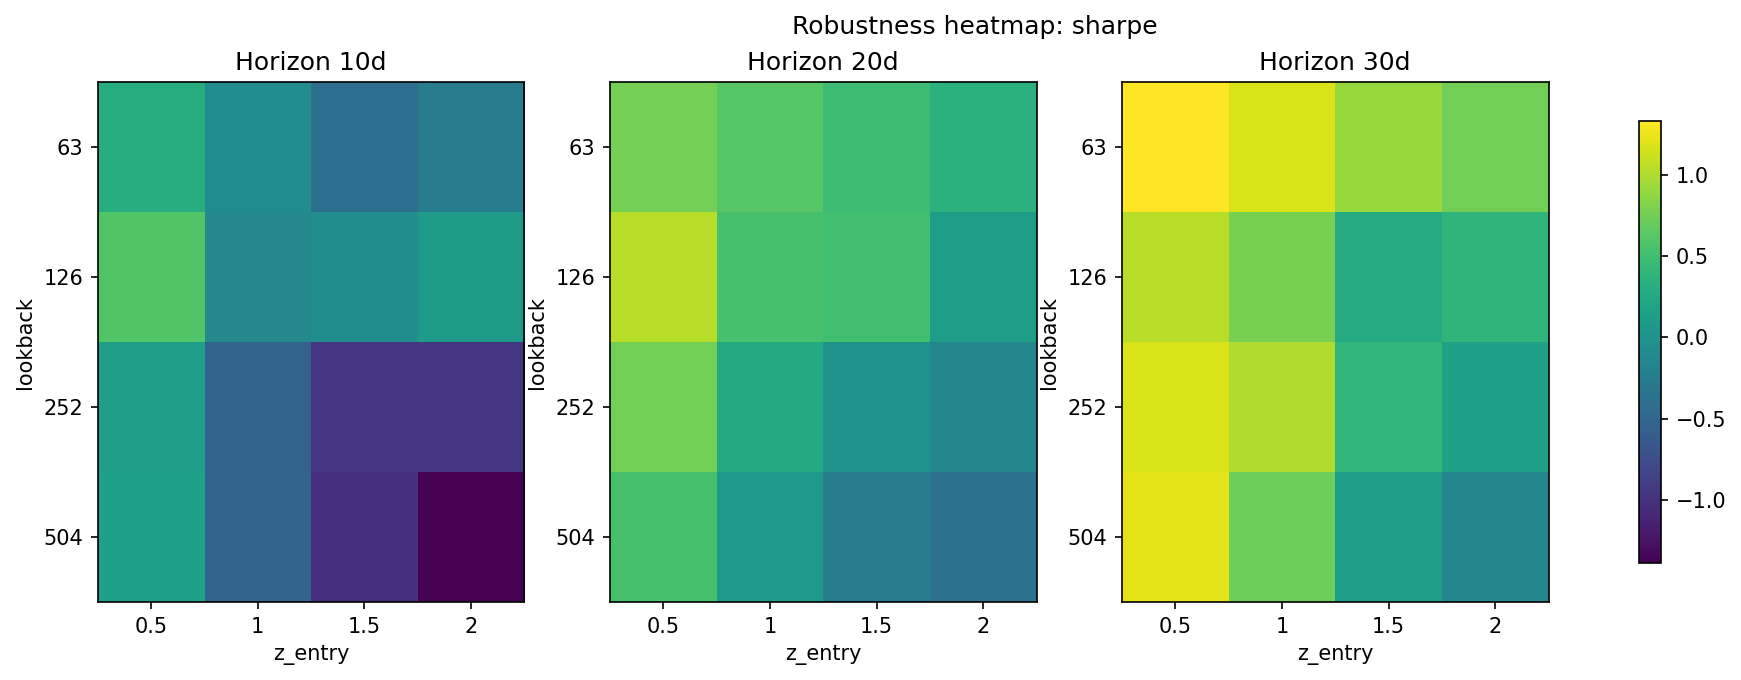
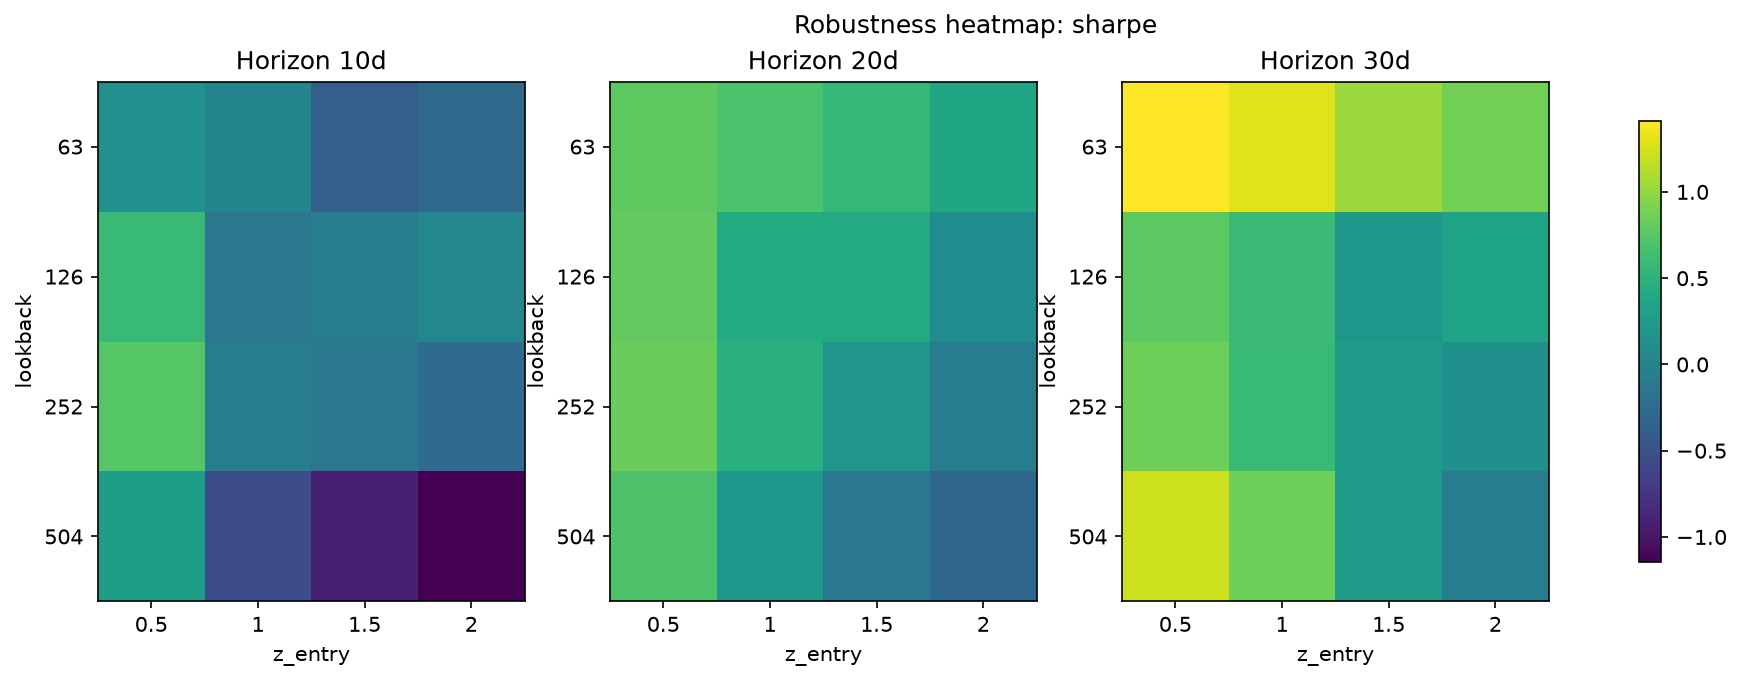
fix: signal coverage, benchmark sample and non-overlap Sharpe
- Tolerate isolated missing IV prints in the rolling z-score (min_periods
  defaults to 95% of lookback). Missing VSTOXX values on 24/31 December
  previously disabled the signal for 252 days each, so it only started in
  December 2010 and skipped the 2008-2009 crisis.
- Evaluate benchmarks on the same sample as the IV/RV signal.
- Add sharpe_non_overlap: the daily sharpe_approx annualizes overlapping
  20-day payoffs as independent daily returns and is strongly inflated.
- Run ruff in CI.
- Regenerate research report, figures and README results snapshot.

diff --git a/src/eurostoxx_iv_rv_backtest/backtesting/benchmarks.py b/src/eurostoxx_iv_rv_backtest/backtesting/benchmarks.py
@@ -64,9 +64,23 @@ def run_benchmark_backtests(
     rv_fwd_col: str = "rv_fwd_20d",
     signal_col: str = "signal_vol",
     trading_days_per_year: int = 252,
+    eligible_col: str | None = "iv_rv_zscore",
+    horizon: int = 20,
 ) -> tuple[pd.DataFrame, pd.DataFrame]:
     """
     Compare the IV/RV signal with simple variance-risk-premium benchmarks.
+
+    All strategies are evaluated on the same sample. When ``eligible_col`` is
+    present in ``df`` (by default the z-score), the benchmarks are only active
+    on rows where that column is defined, i.e. where the IV/RV signal itself
+    could have taken a position. Otherwise a benchmark would be credited with
+    periods (e.g. the signal warm-up) that the signal never had access to.
+
+    ``horizon`` is the payoff horizon in trading days. It is used for
+    ``sharpe_non_overlap``, computed on payoffs sampled every ``horizon`` rows
+    and annualized with ``sqrt(trading_days_per_year / horizon)``. The daily
+    ``sharpe_approx`` treats overlapping ``horizon``-day payoffs as independent
+    daily returns and is therefore strongly inflated.
 
     Returns:
         comparison: one row per strategy with summary diagnostics.
@@ -78,10 +92,14 @@ def run_benchmark_backtests(
     work = df.copy().sort_values(date_col).reset_index(drop=True)
     work[date_col] = pd.to_datetime(work[date_col])
 
+    eligible = pd.Series(True, index=work.index)
+    if eligible_col is not None and eligible_col in work.columns:
+        eligible = work[eligible_col].notna()
+
     strategies: Mapping[str, pd.Series] = {
         "iv_rv_signal": work[signal_col].fillna(0).astype(float),
-        "always_short_vol": always_short_vol(work, iv_col, rv_fwd_col),
-        "always_long_vol": always_long_vol(work, iv_col, rv_fwd_col),
+        "always_short_vol": always_short_vol(work, iv_col, rv_fwd_col).where(eligible, 0),
+        "always_long_vol": always_long_vol(work, iv_col, rv_fwd_col).where(eligible, 0),
         "always_flat": always_flat(work),
     }
 
@@ -107,6 +125,8 @@ def run_benchmark_backtests(
                 equity_col="equity_varswap",
                 signal_col="_benchmark_signal",
                 trading_days_per_year=trading_days_per_year,
+                horizon=horizon,
+                sample_mask=eligible,
             )
         )
         equity_curves[strategy] = bt["equity_varswap"]
@@ -122,6 +142,8 @@ def summarize_benchmark_result(
     equity_col: str = "equity_varswap",
     signal_col: str = "signal_vol",
     trading_days_per_year: int = 252,
+    horizon: int = 20,
+    sample_mask: pd.Series | None = None,
 ) -> dict[str, float | str]:
     """Summarize one stylized payoff series in research-report-friendly columns."""
     _require_columns(df, {date_col, pnl_col, equity_col, signal_col})
@@ -141,6 +163,12 @@ def summarize_benchmark_result(
         "annualized_mean": stats["annualized_mean"],
         "annualized_vol": stats["annualized_vol"],
         "sharpe_approx": stats["sharpe_approx"],
+        "sharpe_non_overlap": non_overlap_sharpe(
+            df[pnl_col],
+            horizon=horizon,
+            trading_days_per_year=trading_days_per_year,
+            sample_mask=sample_mask,
+        ),
         "max_drawdown": stats["max_drawdown"],
         "hit_ratio": stats["hit_ratio"],
         "days_in_position": stats["days_in_position"],
@@ -150,6 +178,40 @@ def summarize_benchmark_result(
         "long_vol_pnl": stats["long_vol_pnl"],
         "short_vol_pnl": stats["short_vol_pnl"],
     }
+
+
+def non_overlap_sharpe(
+    pnl: pd.Series,
+    horizon: int = 20,
+    trading_days_per_year: int = 252,
+    sample_mask: pd.Series | None = None,
+) -> float:
+    """
+    Sharpe of ``horizon``-day payoffs sampled without overlap.
+
+    Each daily row of the stylized payoff is a full ``horizon``-day variance
+    payoff, so consecutive rows overlap by ``horizon - 1`` days. Sampling every
+    ``horizon`` rows gives approximately independent observations, which are
+    annualized with ``sqrt(trading_days_per_year / horizon)``. The estimate is
+    averaged over all ``horizon`` possible sampling offsets so that it does not
+    depend on an arbitrary start date. Flat rows count as zero payoff.
+    """
+    if horizon <= 0:
+        raise ValueError("horizon must be positive.")
+    values = pnl.fillna(0.0).astype(float)
+    if sample_mask is not None:
+        values = values.loc[sample_mask.to_numpy()]
+    values = values.reset_index(drop=True)
+
+    sharpes: list[float] = []
+    for offset in range(min(horizon, len(values))):
+        sample = values.iloc[offset::horizon]
+        std = float(sample.std(ddof=1)) if len(sample) > 1 else np.nan
+        if np.isfinite(std) and std > 0:
+            sharpes.append(float(sample.mean()) / std)
+    if not sharpes:
+        return np.nan
+    return float(np.mean(sharpes) * np.sqrt(trading_days_per_year / horizon))
 
 
 def _yearly_pnl(df: pd.DataFrame, date_col: str, pnl_col: str) -> pd.Series:

diff --git a/src/eurostoxx_iv_rv_backtest/scripts/build_signals.py b/src/eurostoxx_iv_rv_backtest/scripts/build_signals.py
@@ -1,6 +1,7 @@
 # src/eurostoxx_iv_rv_backtest/scripts/build_signals.py
 
 import argparse
+import math
 
 import pandas as pd
 
@@ -14,6 +15,7 @@ def add_iv_rv_signal(
     rv_col: str = "rv_20d",
     lookback: int = 252,
     z_entry: float = 0.5,
+    min_periods: int | None = None,
 ) -> pd.DataFrame:
     """
     Ajoute :
@@ -23,19 +25,32 @@ def add_iv_rv_signal(
           +1 = long vol (IV sous-évalue la RV)
           -1 = short vol (IV surévalue la RV)
            0 = neutre (écart limité)
+
+    ``min_periods`` is the minimum number of valid spreads required inside the
+    rolling window. It defaults to 95% of ``lookback`` so that an isolated
+    missing IV print (e.g. VSTOXX not published on 24/31 December) does not
+    invalidate the z-score for the following ``lookback`` days. The z-score at a
+    date with missing IV or RV stays NaN and the signal is flat on that date.
     """
 
     df = df.copy()
 
     if iv_col not in df.columns or rv_col not in df.columns:
         raise ValueError("Colonnes IV/RV manquantes pour le signal.")
+    if lookback < 2:
+        raise ValueError("lookback doit être >= 2.")
+    if min_periods is None:
+        min_periods = max(2, math.ceil(0.95 * lookback))
+    if not 2 <= min_periods <= lookback:
+        raise ValueError("min_periods doit être compris entre 2 et lookback.")
 
     # Écart IV - RV (en vol annualisée)
     df["iv_minus_rv"] = df[iv_col] - df[rv_col]
 
     # Stats glissantes sur l'écart
-    rolling_mean = df["iv_minus_rv"].rolling(lookback).mean()
-    rolling_std = df["iv_minus_rv"].rolling(lookback).std()
+    rolling = df["iv_minus_rv"].rolling(lookback, min_periods=min_periods)
+    rolling_mean = rolling.mean()
+    rolling_std = rolling.std()
 
     df["iv_rv_zscore"] = (df["iv_minus_rv"] - rolling_mean) / rolling_std
 

diff --git a/tests/test_benchmarks.py b/tests/test_benchmarks.py
@@ -5,6 +5,7 @@ from eurostoxx_iv_rv_backtest.backtesting.benchmarks import (
     always_flat,
     always_long_vol,
     always_short_vol,
+    non_overlap_sharpe,
     run_benchmark_backtests,
 )
 
@@ -63,3 +64,32 @@ def test_benchmark_payoff_signs_on_artificial_dataset() -> None:
     assert {"iv_rv_signal", "always_short_vol", "always_long_vol", "always_flat"}.issubset(
         equity.columns
     )
+
+
+def test_benchmarks_are_restricted_to_signal_sample() -> None:
+    df = pd.DataFrame(
+        {
+            "date": pd.date_range("2024-01-01", periods=4, freq="B"),
+            "iv": [0.20, 0.20, 0.20, 0.20],
+            "rv_fwd_20d": [0.10, 0.10, 0.30, 0.10],
+            "signal_vol": [0, 0, 1, -1],
+            "iv_rv_zscore": [np.nan, np.nan, -1.0, 1.0],
+        }
+    )
+
+    comparison, _ = run_benchmark_backtests(df, horizon=1)
+    by_strategy = comparison.set_index("strategy")
+    expected_short = -((0.30**2 - 0.20**2) + (0.10**2 - 0.20**2))
+
+    assert np.isclose(by_strategy.loc["always_short_vol", "total_pnl"], expected_short)
+    assert by_strategy.loc["always_short_vol", "days_in_position"] == 2
+
+
+def test_non_overlap_sharpe_matches_manual_sampling() -> None:
+    pnl = pd.Series([1.0, 9.0, 3.0, 9.0, 2.0, 9.0, 4.0, 9.0])
+
+    # horizon=2: offset 0 -> [1,3,2,4], offset 1 -> [9,9,9,9] (zero std, skipped)
+    sample = pd.Series([1.0, 3.0, 2.0, 4.0])
+    expected = sample.mean() / sample.std(ddof=1) * np.sqrt(252 / 2)
+
+    assert np.isclose(non_overlap_sharpe(pnl, horizon=2), expected)

diff --git a/tests/test_iv_rv_signal.py b/tests/test_iv_rv_signal.py
@@ -1,3 +1,4 @@
+import pytest
 import numpy as np
 import pandas as pd
 
@@ -75,3 +76,27 @@ def test_add_iv_rv_signal_applies_zscore_threshold_rule() -> None:
     assert result.loc[3, "signal_vol"] == -1
     assert np.isclose(result.loc[4, "iv_rv_zscore"], -0.7071067811865475)
     assert result.loc[4, "signal_vol"] == 1
+
+
+def test_isolated_missing_iv_does_not_disable_signal_for_whole_lookback() -> None:
+    rng = np.random.default_rng(0)
+    n = 60
+    df = pd.DataFrame({"iv": 0.20 + 0.02 * rng.standard_normal(n), "rv_20d": 0.18})
+    df.loc[30, "iv"] = np.nan
+
+    result = add_iv_rv_signal(df, lookback=40, z_entry=0.5)
+
+    # Missing date itself stays undefined and flat.
+    assert np.isnan(result.loc[30, "iv_rv_zscore"])
+    assert result.loc[30, "signal_vol"] == 0
+    # Dates after the gap keep a valid z-score (95% of the window is enough).
+    assert result.loc[45:, "iv_rv_zscore"].notna().all()
+    # Strict mode reproduces the old behaviour.
+    strict = add_iv_rv_signal(df, lookback=40, z_entry=0.5, min_periods=40)
+    assert strict.loc[45:69, "iv_rv_zscore"].isna().all()
+
+
+def test_add_iv_rv_signal_rejects_invalid_min_periods() -> None:
+    df = pd.DataFrame({"iv": [0.2, 0.3, 0.1], "rv_20d": [0.2, 0.2, 0.2]})
+    with pytest.raises(ValueError):
+        add_iv_rv_signal(df, lookback=3, min_periods=4)

diff --git a/src/eurostoxx_iv_rv_backtest/scripts/generate_research_report.py b/src/eurostoxx_iv_rv_backtest/scripts/generate_research_report.py
@@ -181,9 +181,18 @@ def _benchmark_section(benchmark: pd.DataFrame | None) -> str:
         return "Benchmark comparison unavailable. Run `eurostoxx-run-benchmarks`."
 
     columns = ["strategy", "total_pnl", "sharpe_approx", "max_drawdown", "days_in_position"]
+    note = ""
+    if "sharpe_non_overlap" in benchmark.columns:
+        columns.insert(3, "sharpe_non_overlap")
+        note = (
+            "\n\n`sharpe_approx` annualizes overlapping multi-day payoffs as if they were "
+            "independent daily returns and is inflated. `sharpe_non_overlap` samples one "
+            "payoff per horizon and is the more honest risk-adjusted comparison. All "
+            "strategies are evaluated on the sample where the IV/RV signal is defined."
+        )
     text = _markdown_table(benchmark.to_dict("records"), columns)
     conclusion = _benchmark_conclusion(benchmark)
-    return f"{text}\n\n{conclusion}"
+    return f"{text}{note}\n\n{conclusion}"
 
 
 def _walk_forward_section(

diff --git a/docs/research_report.md b/docs/research_report.md
@@ -20,36 +20,38 @@ Does the IV/RV spread contain information about future realized variance beyond 
 ## Main Results
 | layer | total_pnl | sharpe_approx | max_drawdown | days_in_position |
 | --- | --- | --- | --- | --- |
-| Daily IV/RV signal | 8.222 | 0.7535 | -4.784 | 2227 |
+| Daily IV/RV signal | 12.72 | 0.831 | -4.906 | 2730 |
 
-Non-overlapping layer: 164 trades, cumulative normalized PnL 0.4741.
+Non-overlapping layer: 203 trades, cumulative normalized PnL 1.239.
 
 All values are normalized diagnostics, not returns, EUR PnL or executable trading results.
 
 ## Benchmark Comparison
-| strategy | total_pnl | sharpe_approx | max_drawdown | days_in_position |
-| --- | --- | --- | --- | --- |
-| iv_rv_signal | 8.222 | 0.7535 | -4.784 | 2227 |
-| always_short_vol | 47.83 | 2.789 | -11.39 | 4705 |
-| always_long_vol | -47.83 | -2.789 | -55.74 | 4705 |
-| always_flat | 0 | n/a | -0 | 0 |
+| strategy | total_pnl | sharpe_approx | sharpe_non_overlap | max_drawdown | days_in_position |
+| --- | --- | --- | --- | --- | --- |
+| iv_rv_signal | 12.72 | 0.831 | 0.1969 | -4.906 | 2730 |
+| always_short_vol | 48.37 | 2.802 | 0.6501 | -11.39 | 4643 |
+| always_long_vol | -48.37 | -2.802 | -0.6501 | -58.68 | 4643 |
+| always_flat | 0 | n/a | n/a | -0 | 0 |
+
+`sharpe_approx` annualizes overlapping multi-day payoffs as if they were independent daily returns and is inflated. `sharpe_non_overlap` samples one payoff per horizon and is the more honest risk-adjusted comparison. All strategies are evaluated on the sample where the IV/RV signal is defined.
 
 In this sample, the always-short-vol benchmark has higher total PnL than the IV/RV signal, so the result appears substantially related to naive VRP exposure.
 
 ## Walk-Forward Validation
-- Average test PnL: 0.4243.
-- Positive test folds: 11 / 14.
-- Average test Sharpe approximation: 1.859.
-- Selected-parameter dispersion: 3 z thresholds, 4 lookbacks, 2 horizons.
+- Average test PnL: 0.3603.
+- Positive test folds: 11 / 15.
+- Average test Sharpe approximation: 1.539.
+- Selected-parameter dispersion: 3 z thresholds, 4 lookbacks, 3 horizons.
 
 ## Robustness
 | metric | value |
 | --- | --- |
-| total_pnl_min | -5.621 |
-| total_pnl_max | 19.28 |
-| sharpe_approx_min | -1.389 |
-| sharpe_approx_max | 1.328 |
-| max_drawdown_worst | -7.586 |
+| total_pnl_min | -5.463 |
+| total_pnl_max | 21.35 |
+| sharpe_approx_min | -1.148 |
+| sharpe_approx_max | 1.413 |
+| max_drawdown_worst | -8.132 |
 | grid_points | 48 |
 
 The grid is a stability diagnostic, not a parameter-mining exercise.
@@ -58,32 +60,32 @@ The grid is a stability diagnostic, not a parameter-mining exercise.
 | subperiod | total_pnl | sharpe_approx | max_drawdown | days_in_position |
 | --- | --- | --- | --- | --- |
 | pre_gfc | 0 | n/a | -0 | 0 |
-| gfc | 0 | n/a | 0 | 0 |
-| euro_crisis | 5.116 | 3.652 | -1.321 | 287 |
+| gfc | 7.76 | 2.531 | -2.369 | 230 |
+| euro_crisis | 1.934 | 0.9285 | -4.748 | 445 |
 | low_vol_2013_2019 | -0.4397 | -0.1968 | -2.552 | 1056 |
 | covid | 0.1426 | 0.07062 | -4.784 | 160 |
-| post_covid | 3.403 | 1.606 | -1.672 | 724 |
+| post_covid | 3.325 | 1.415 | -1.672 | 839 |
 
-Largest absolute contribution: `euro_crisis`.
+Largest absolute contribution: `gfc`.
 
 ## Cost Sensitivity
 | cost_per_signal_change | total_pnl | sharpe_approx | max_drawdown |
 | --- | --- | --- | --- |
-| 0 | 8.222 | 0.7535 | -4.784 |
-| 0.0001 | 8.147 | 0.7467 | -4.785 |
-| 0.0005 | 7.851 | 0.7193 | -4.79 |
-| 0.001 | 7.48 | 0.6852 | -4.797 |
-| 0.0025 | 6.367 | 0.5828 | -4.816 |
-| 0.005 | 4.512 | 0.4122 | -4.849 |
+| 0 | 12.72 | 0.831 | -4.906 |
+| 0.0001 | 12.63 | 0.8249 | -4.911 |
+| 0.0005 | 12.25 | 0.8003 | -4.929 |
+| 0.001 | 11.78 | 0.7695 | -4.953 |
+| 0.0025 | 10.37 | 0.6772 | -5.023 |
+| 0.005 | 8.027 | 0.5234 | -5.141 |
 
 Costs are stylized signal-change frictions, not bid/ask, market impact or financing costs.
 
 ## Interpretation
 - In this sample, the always-short-vol benchmark has higher total PnL than the IV/RV signal, so the result appears substantially related to naive VRP exposure.
 - The short-vol leg contributes more than the long-vol leg in the daily diagnostic.
-- Walk-forward validation has 11 positive test folds out of 14, which is the relevant out-of-sample stability check.
-- Subperiod attribution should be read carefully because `euro_crisis` is the largest absolute contributor.
-- Raising stylized costs from 0 to 0.005 changes total PnL from 8.222 to 4.512.
+- Walk-forward validation has 11 positive test folds out of 15, which is the relevant out-of-sample stability check.
+- Subperiod attribution should be read carefully because `gfc` is the largest absolute contributor.
+- Raising stylized costs from 0 to 0.005 changes total PnL from 12.72 to 8.027.
 - The payoff is useful for signal diagnostics, not for claiming live alpha.
 - The VSTOXX proxy keeps the study reproducible but limits desk-level interpretation.
 

diff --git a/README.md b/README.md
@@ -77,13 +77,23 @@ The numbers below are generated from the current local sample. They are
 normalized diagnostics, not returns, EUR PnL, live trading results or desk-level
 variance-swap marks.
 
-| Layer | total_pnl | sharpe_approx | max_drawdown | days_in_position |
-|---|---:|---:|---:|---:|
-| Daily IV/RV signal | 8.222 | 0.753 | -4.784 | 2,227 |
-| Non-overlap signal | 0.474 | n/a | n/a | 164 trades |
-| Always short vol benchmark | 47.830 | 2.789 | -11.394 | 4,705 |
-| Always long vol benchmark | -47.830 | -2.789 | -55.737 | 4,705 |
-| Flat | 0.000 | n/a | 0.000 | 0 |
+| Layer | total_pnl | sharpe_approx | sharpe_non_overlap | max_drawdown | days_in_position |
+|---|---:|---:|---:|---:|---:|
+| Daily IV/RV signal | 12.722 | 0.831 | 0.197 | -4.906 | 2,730 |
+| Non-overlap signal | 1.239 | n/a | n/a | n/a | 203 trades |
+| Always short vol benchmark | 48.371 | 2.802 | 0.650 | -11.394 | 4,643 |
+| Always long vol benchmark | -48.371 | -2.802 | -0.650 | -58.676 | 4,643 |
+| Flat | 0.000 | n/a | n/a | 0.000 | 0 |
+
+Sample: SX5E/VSTOXX daily data, 2007-03-30 to 2026-11-24. All strategies are
+evaluated on the same sample, i.e. the dates where the IV/RV z-score is defined.
+
+`sharpe_approx` annualizes each row's overlapping 20-day payoff as if it were an
+independent daily return, which strongly inflates it. `sharpe_non_overlap`
+samples one payoff every 20 trading days and is the number to quote. On that
+basis the IV/RV signal (about 0.2) does not beat a naive always-short-vol
+exposure (about 0.65): most of the edge is the variance risk premium, and the
+long-vol leg loses money on average.
 
 For the full generated table and interpretation, run:
 
